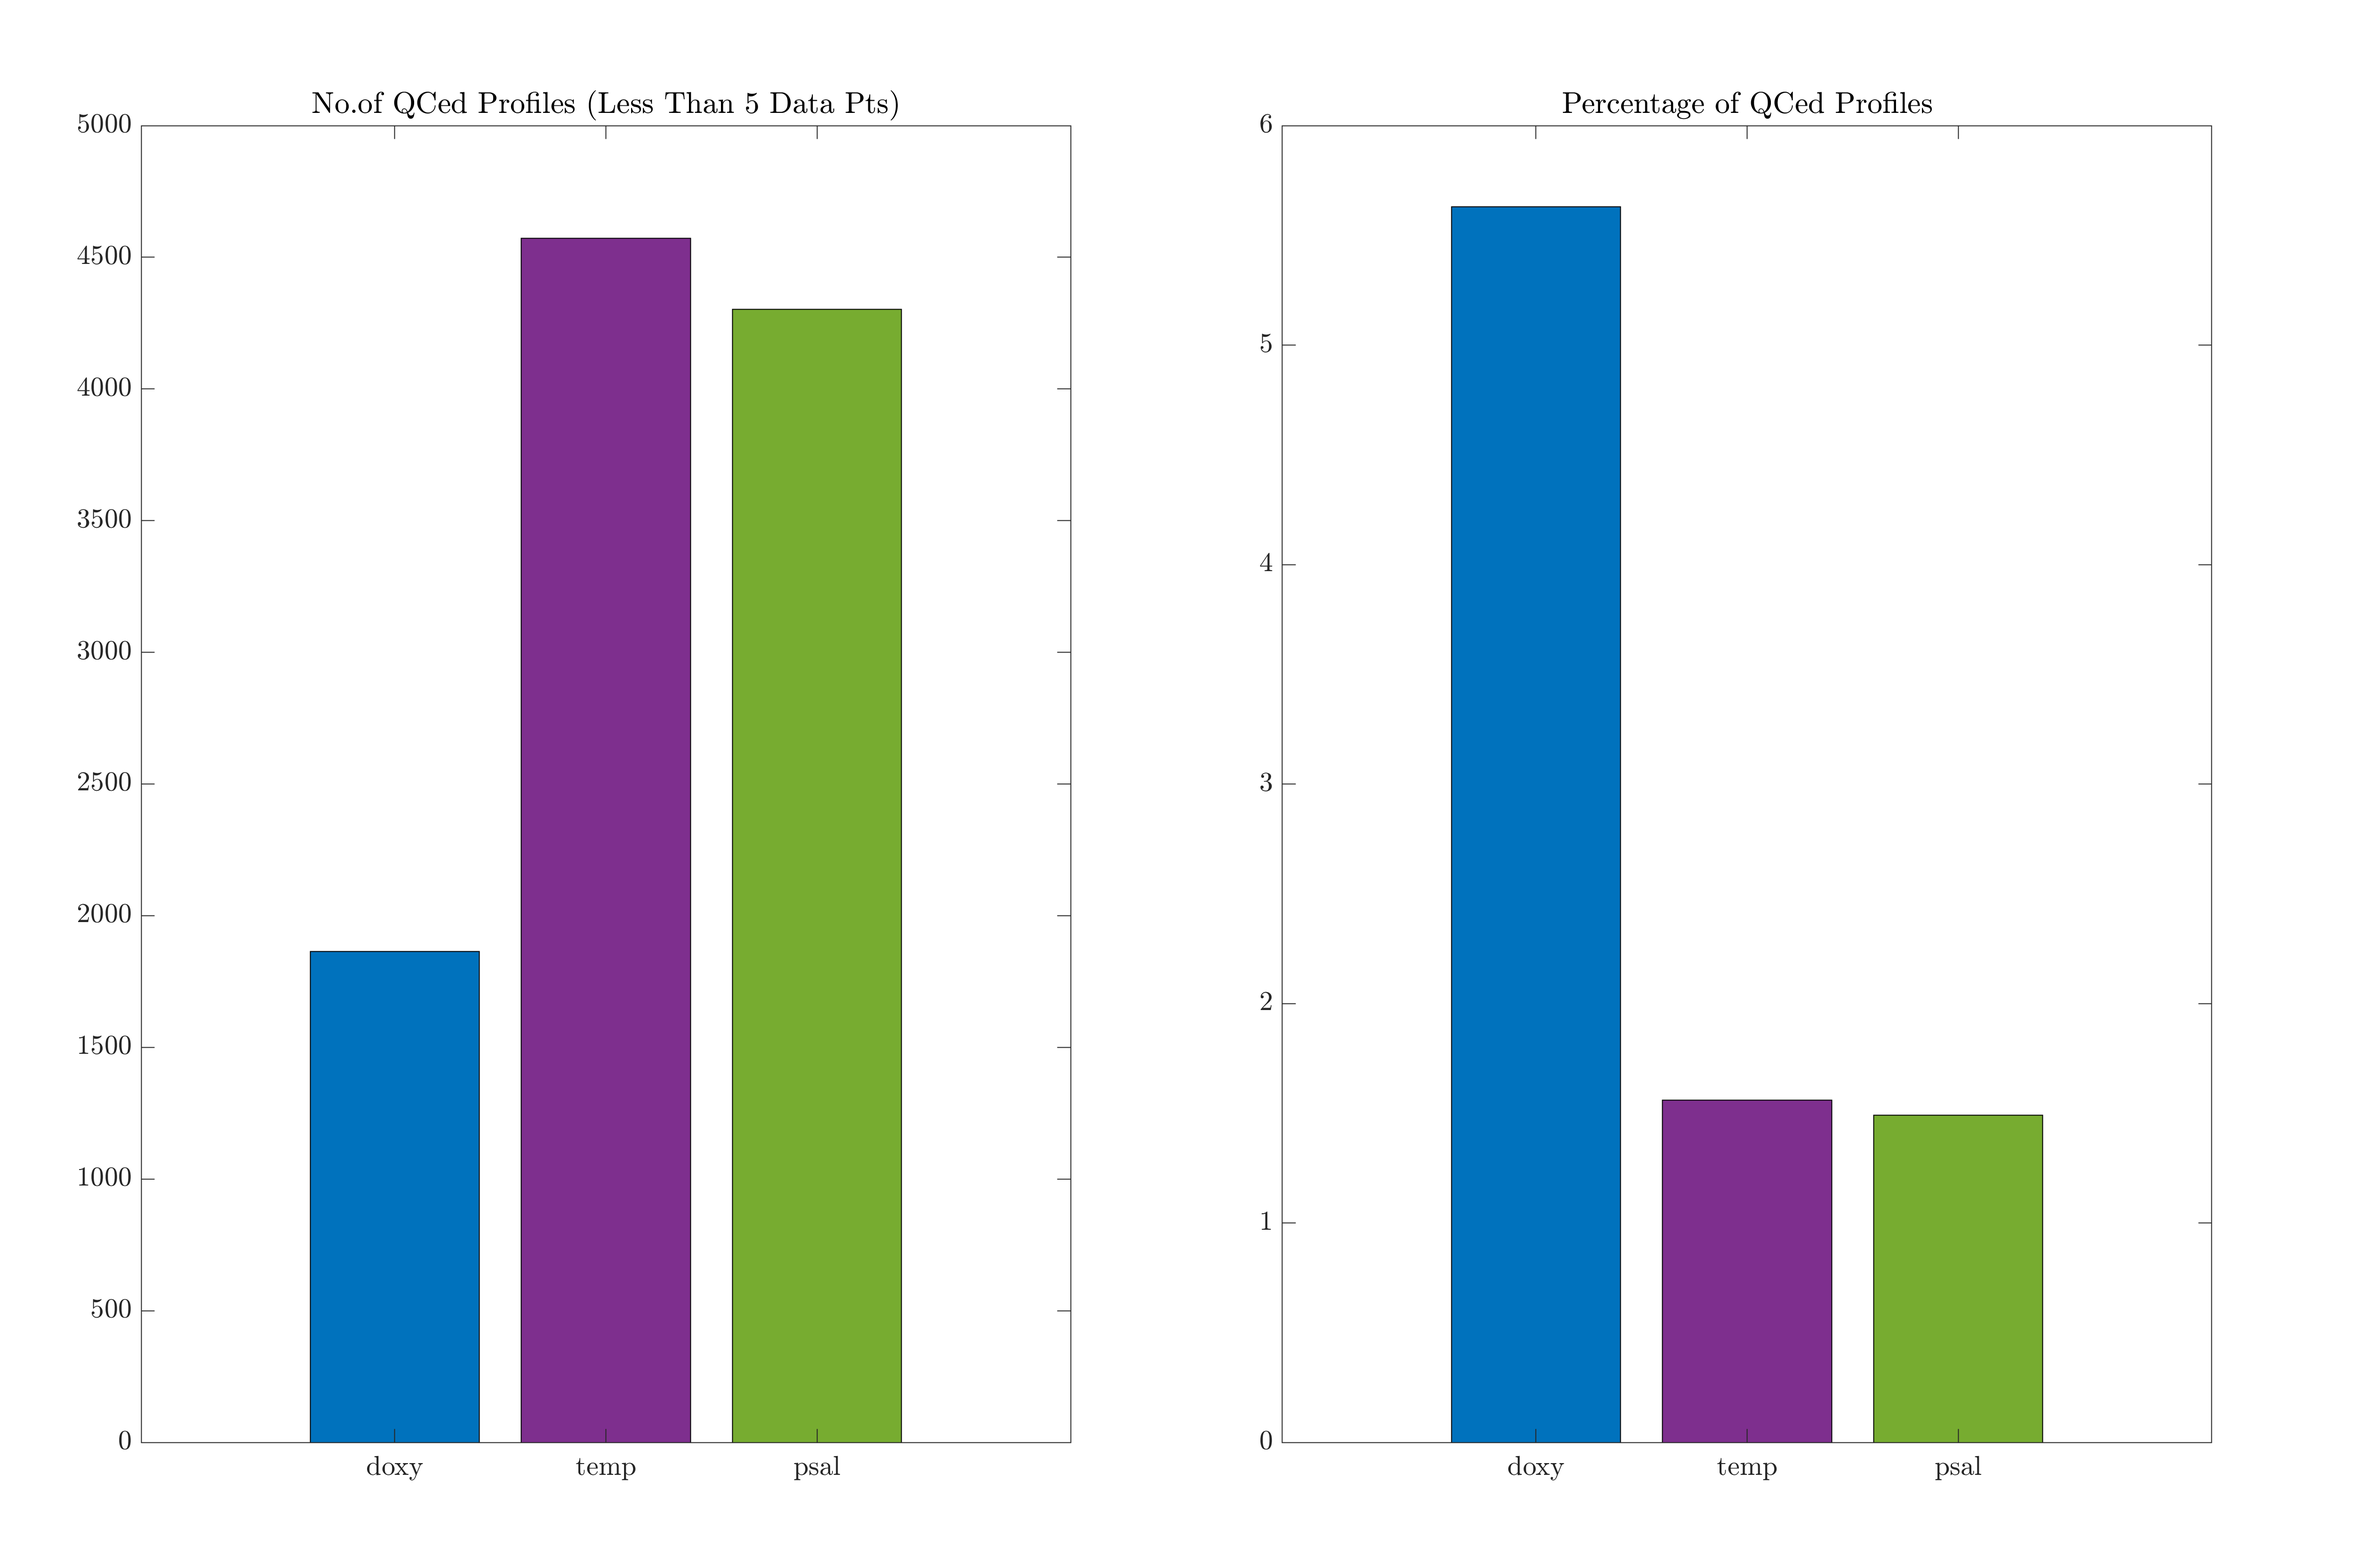
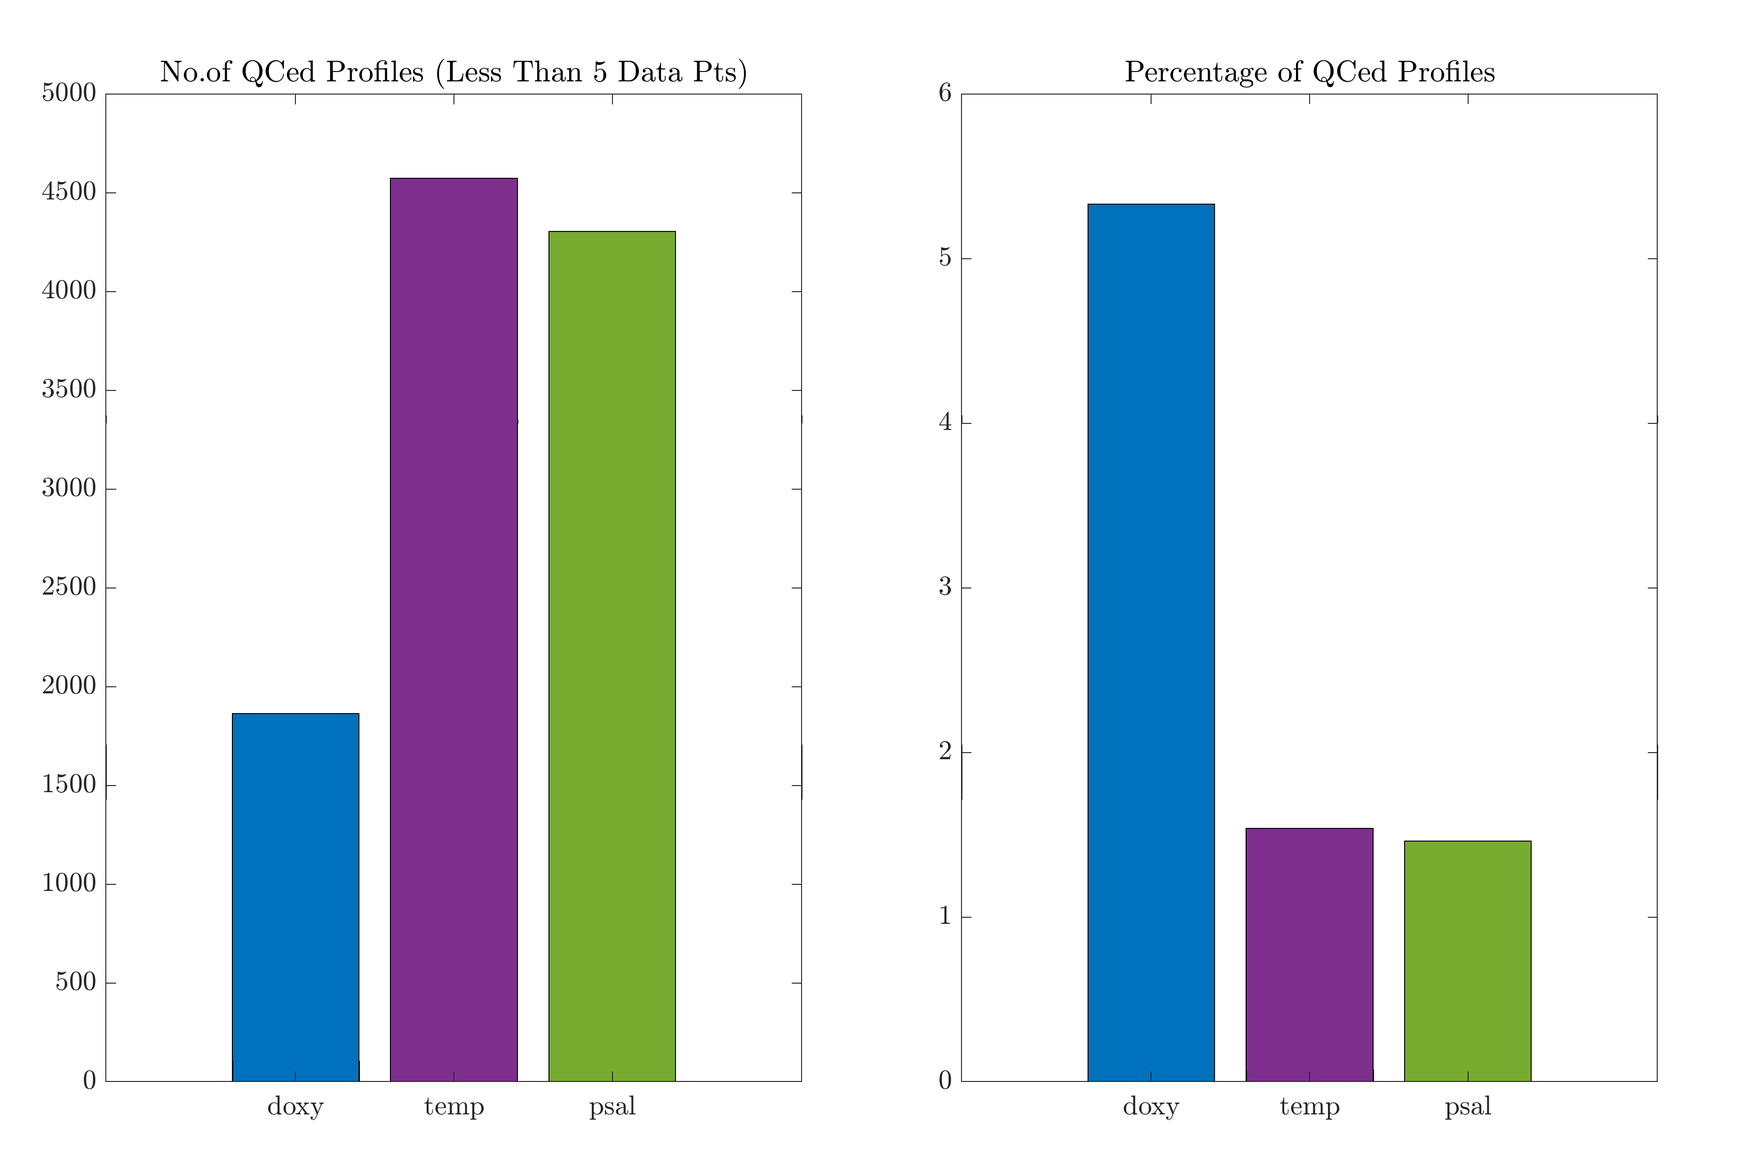
updates

diff --git a/Code/Initial_Testing/Merged_Data/A_Quality_Control.m b/Code/Initial_Testing/Merged_Data/A_Quality_Control.m
@@ -24,8 +24,8 @@ addpath(genpath('../../../Local_Tools/'))
 % add data path
 addpath(genpath('../../../Data/'))
 
-outfp = '../../Figures/Testing/Data_Processing/';
-outdp = '../../Data/Testing/Processed/';
+outfp = '../../../Figures/Testing/Data_Processing/';
+outdp = '../../../Data/Testing/Processed/';
 
 %--------------------------------------------------------------------------
 % Filesnames
@@ -144,26 +144,21 @@ for vv = 1:length(vars)
         
         % check to make sure it isn't empty and has fewer pts than the
         % threshold
-        if length(tmpvar(~isnan(tmpvar))) <= qc_thresh && ~isempty(tmpvar(~isnan(tmpvar)))
+        if ~isempty(tmpvar(~isnan(tmpvar)))
+            if length(tmpvar(~isnan(tmpvar))) <= qc_thresh
+
+                qc_struc.([varnames{vv} '_qc_counter']) = qc_struc.([varnames{vv} '_qc_counter']) + 1;
+                qc_struc.([varnames{vv} '_qc_lats']) = [qc_struc.([varnames{vv} '_qc_lats']) lat(pp)];
+                qc_struc.([varnames{vv} '_qc_lons']) = [qc_struc.([varnames{vv} '_qc_lons']) lon(pp)];
+                qc_struc.([varnames{vv} '_qc_pr_no']) = [qc_struc.([varnames{vv} '_qc_pr_no']) prof(pp)];
+                qc_struc.([varnames{vv} '_qc_pr_type']) = [qc_struc.([varnames{vv} '_qc_pr_type']) type(pp)];
+
+                struc.(varnames{vv})(:,pp) = NaN(size(tmpvar));
+                % check to make sure its not empty and that it has data above
+                % 500m
+            end
             
-            qc_struc.([varnames{vv} '_qc_counter']) = qc_struc.([varnames{vv} '_qc_counter']) + 1;
-            qc_struc.([varnames{vv} '_qc_lats']) = [qc_struc.([varnames{vv} '_qc_lats']) lat(pp)];
-            qc_struc.([varnames{vv} '_qc_lons']) = [qc_struc.([varnames{vv} '_qc_lons']) lon(pp)];
-            qc_struc.([varnames{vv} '_qc_pr_no']) = [qc_struc.([varnames{vv} '_qc_pr_no']) prof(pp)];
-            qc_struc.([varnames{vv} '_qc_pr_type']) = [qc_struc.([varnames{vv} '_qc_pr_type']) type(pp)];
-            
-            struc.(varnames{vv})(:,pp) = NaN(size(tmpvar));
-            % check to make sure its not empty and that it has data above
-            % 500m
-        elseif ~isempty(tmpvar(~isnan(tmpvar))) && nansum(~isnan(upper_tmpvar)) == 0
-            qc_struc.([varnames{vv} '_qc_counter']) = qc_struc.([varnames{vv} '_qc_counter']) + 1;
-            qc_struc.([varnames{vv} '_qc_lats']) = [qc_struc.([varnames{vv} '_qc_lats']) lat(pp)];
-            qc_struc.([varnames{vv} '_qc_lons']) = [qc_struc.([varnames{vv} '_qc_lons']) lon(pp)];
-            qc_struc.([varnames{vv} '_qc_pr_no']) = [qc_struc.([varnames{vv} '_qc_pr_no']) prof(pp)];
-            qc_struc.([varnames{vv} '_qc_pr_type']) = [qc_struc.([varnames{vv} '_qc_pr_type']) type(pp)];
-            
-        elseif ~isempty(tmpvar(~isnan(tmpvar))) % only consider profiles that aren't all nans to begin with
-            
+            % only consider profiles that aren't all nans to begin with
             qc_struc.([varnames{vv} '_total_no_pr']) = qc_struc.([varnames{vv} '_total_no_pr'])+1;
             
         end

diff --git a/Code/Initial_Testing/Merged_Data/B_TCD_OCD_Gradient_Testing.m b/Code/Initial_Testing/Merged_Data/B_TCD_OCD_Gradient_Testing.m
@@ -214,19 +214,19 @@ xlims = xlim;
 x = xlims(1):xlims(2); y = ones(size(x));
 line(x,-1*OCD_box_N(ind).*y,'Parent',ax2,'linewidth',1,'Color','k', 'linestyle',':');
 
-% create inset with location of profile
-hf1=gcf;                                   
-axes('parent',hf1,'position',[0.67 0.15 0.15 0.3]);  % x y width height
-m_proj('mercator','longitudes',[30,120], ...
-           'latitudes',[-20,30]);
-hold on
-%latmin, latmax, lonmin, lonmax,
-m_latlon_boundbox(latlon_lim_box_N,'Edgecolor','w','Linewidth',3)
-
-% m_scatter(lon_bb,lat_bb,200,'y.'); shading flat;
-m_coast('patch',[.7 .7 .7],'edgecolor','none');
-m_grid('background color','k','xtick',([30, 60, 90, 120]), 'ytick',([-20,0,20]));
-title('Bounding Box')
+% % create inset with location of profile
+% hf1=gcf;                                   
+% axes('parent',hf1,'position',[0.67 0.15 0.15 0.3]);  % x y width height
+% m_proj('mercator','longitudes',[30,120], ...
+%            'latitudes',[-20,30]);
+% hold on
+% %latmin, latmax, lonmin, lonmax,
+% m_latlon_boundbox(latlon_lim_box_N,'Edgecolor','w','Linewidth',3)
+% 
+% % m_scatter(lon_bb,lat_bb,200,'y.'); shading flat;
+% m_coast('patch',[.7 .7 .7],'edgecolor','none');
+% m_grid('background color','k','xtick',([30, 60, 90, 120]), 'ytick',([-20,0,20]));
+% title('Bounding Box')
 
 
 xlabel(ax2,'Dissolved Oxygen ($\mu mol/kg$)')

diff --git a/Code/Initial_Testing/Merged_Data/B_Vertical_Smoothing_Testing.m b/Code/Initial_Testing/Merged_Data/B_Vertical_Smoothing_Testing.m
@@ -168,6 +168,10 @@ struc.OCD_sm_10(isnan(grad_doxy_min_sm_10))=nan;
 struc.TCD_sm_15(isnan(grad_temp_min_sm_15))=nan;
 struc.OCD_sm_15(isnan(grad_doxy_min_sm_15))=nan;
 
+% set TCD/OCD for depths greater than 400dbar to nans
+
+struc.TCD(struc.TCD>=400) = nan;
+struc.OCD(struc.OCD>=400) = nan;
 
 % TCD_grad(isnan(grad_temp(grad_temp_min_ind)))=nan;
 % OCD_grad(isnan(grad_doxy(grad_doxy_min_ind)))=nan;

diff --git a/Local_Tools/latlon_var_bin.m b/Local_Tools/latlon_var_bin.m
@@ -1,11 +1,11 @@
 function [var_binned,bincounts,lat_grid,lon_grid] = latlon_var_bin(var,lon,lat,gridspacing)
 
 
-% get rid of the nans
-ind = ~isnan(var);
-var = var(ind);
-lat = lat(ind);
-lon = lon(ind);
+% % get rid of the nans
+% ind = ~isnan(var);
+% var = var(ind);
+% lat = lat(ind);
+% lon = lon(ind);
 
 % get lat lon lims
 minlat=min(lat);
